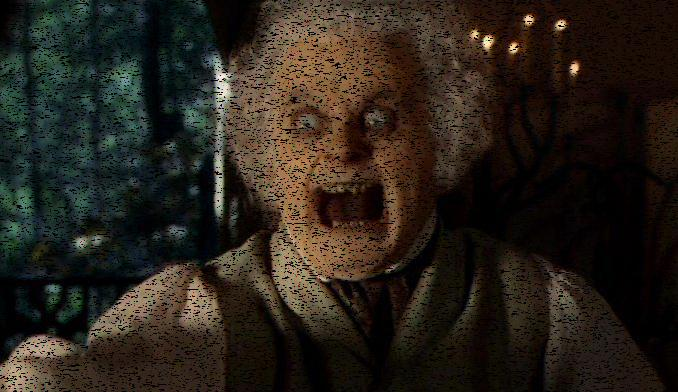
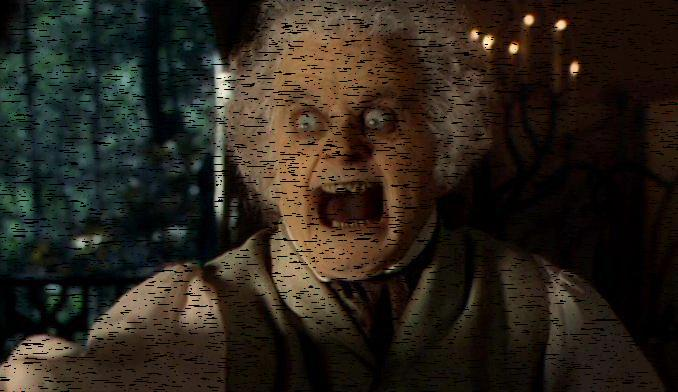
Gilbert model,limit of possible resends, execution time, process log

diff --git a/Functions.py b/Functions.py
@@ -43,13 +43,11 @@ def binary_symmetric_channel(probability, frame=None):
     if frame is None:
         frame = Frame(1, np.zeros(8))          # failsafe if frame is not given
 
-    probability *= 100                          # gives probability in percent and parses it to int
-    probability = int(probability)              # e.g. prob = 0.1 => prob = 10
-
     rand = random.randint(1, 100)
 
-    if rand in range(probability):                      # if rand is in range of probability
-        rand = random.randrange(0, frame.__len__())     # then it rands again to choose which bit to modify
+    if rand in range(1, probability + 1):                      # if rand is in range of probability
+        rand = random.randrange(0, frame.__len__())            # then it rands again to choose which bit to modify
+
         if frame.packet[rand] == 1:                     # and then changes this bit's value
             frame.packet[rand] = 0
         else:
@@ -91,14 +89,12 @@ def gilberts_model(probability, frame=None, state=True):
     if frame is None:
         frame = Frame(1, np.zeros(8))          # failsafe if frame is not given
 
-    probability *= 100                          # gives probability in percent and parses it to int
-    probability = int(probability)              # e.g. prob = 0.1 => prob = 10
-
     rand = random.randint(1, 100)
 
     if state:                                               # if previous frame was sent correctly
-        if rand in range(probability):                      # if rand is in range of probability
+        if rand in range(1, probability + 1):                      # if rand is in range of probability
             rand = random.randrange(0, frame.__len__())     # then it rands again to choose which bit to modify
+
             if frame.packet[rand] == 1:                     # and then changes this bit's value
                 frame.packet[rand] = 0
             else:
@@ -107,13 +103,14 @@ def gilberts_model(probability, frame=None, state=True):
                                                 # when sending the previous frame
 
     elif not state:                             # if previous frame was sent with error
-        probability = 100 - probability         # inverts probability
-        if rand in range(probability):                      # if rand is in range of new probability
+        if rand in range(100 - probability):                      # if rand is in range of new probability
             rand = random.randrange(0, frame.__len__())     # then it rands again to choose which bit to modify
+
             if frame.packet[rand] == 1:                     # and then changes this bit's value
                 frame.packet[rand] = 0
             else:
                 frame.packet[rand] = 1
+
         else:
             state = True                        # changing the state after no error; True -> successful transmission
                                                 # when sending the prefious frame
@@ -133,16 +130,42 @@ def stop_and_wait(probability, img_in, img_out, resends_possible=None):
     :param img_out:
     :return:
     """
+
+    tframes = 0                             # number of transferred frames
+    errors = 0                              # number of errors during transmission
+    dframes = 0                             # number of uncorrected errors
+
     state = True                            # 'state' saves if frame became distorted or not (Gilbert's model)
+
     if resends_possible is None:            # failsafe if timeout is not given
         resends_possible = -1
 
     resends_left = copy.deepcopy(resends_possible)      # initialize counter for left resends
 
-    height, width, depth = img_in.shape         # setting variables based on sizes of each axis in array
+    height, width, depth = img_in.shape                 # setting variables based on sizes of each axis in array
 
     error_model = input("1. Binary Symetric Channel Model\n"    # choosing error model
                         "2. Gilbert's Model\n")
+
+    if error_model == '1':                  # ------------------------------------------------
+        model = 'Binary symetric chanel'    #
+    else:                                   #
+        model = "Gilbert's"                 #
+                                            # formating for print below and process statistics
+    if resends_possible == -1:              #
+        resendsstr = 'unlimited'            #
+    else:                                   #
+        resendsstr = resends_possible       # ------------------------------------------------
+
+    cls()
+
+    print('Transmission using Stop and Wait protocol\n'     # print with process info
+          '{err_model} error model\n'                       # while process is running
+          'error probability: {p}%\n'
+          'possible resends: {r}'.format(err_model=model, p=probability, r=resendsstr))
+    print('Processing...')
+
+    proccess_time = time.clock()            # getting current time
 
     for h in range(height):                 # iterating by height
         for w in range(width):              # width
@@ -166,12 +189,23 @@ def stop_and_wait(probability, img_in, img_out, resends_possible=None):
                         img_out[h, w, d:d + 8] = sent_packet.packet  # saved to a receiver
                         break
                     else:
+                        errors += 1                                     # errors counter++
+
                         if resends_left > 0:                            # if not, frame is resent if there are possible
                             resends_left -= 1                           # resends left and no. of resends is decreased.
                         elif resends_left == 0:                         # If there are no more resends left,
+                            dframes += 1                                # distorted frames counter++
                             img_out[h, w, d:d + 8] = np.zeros(8)        # errorframe is saved to the image;
                             resends_left = resends_possible             # resends are re-set; loop breaks,
                             break                                       # and next frame is sent
-                        continue
 
-    return img_out
+                        continue
+                tframes += 1                                            # transfered frames counter++
+
+    print("Transmission Complete")
+
+    proccess_time = time.clock() - proccess_time                        # getting process time
+    print(f"time: {round(proccess_time, 2)} seconds")
+
+    # returning image, and process statistics
+    return resends_possible, 'Stop and Wait', model, proccess_time, tframes, errors, dframes, img_out

diff --git a/main.py b/main.py
@@ -2,6 +2,8 @@ import imageio
 import Functions
 import numpy as np
 import copy
+from PIL import Image
+import datetime
 
 
 def main():
@@ -13,7 +15,7 @@ def main():
     """
     Setting probability of error during transmission
     """
-    probability = float(input('Enter probability (0.00-1.00): '))          # probability of error; from 0.00 to 1.00
+    probability = int(input('Enter error probability in % (0 - 100): '))    # probability of error; from 0 to 100 %
 
     """
     Read jpg image from a file, into a nympy array
@@ -39,13 +41,15 @@ def main():
     resends = 0 => no error correction, every frame is saved no matter if correct or not
     resends = '' = -1 => 100% error correction, frame is being resent, untill correct transmission
     """
-    resends = input('Enter number of possible resends (for infinite number press [Enter]): ')   # enter natural number
+    resends = input('Enter number of possible resends (for unlimited press [Enter]): ')   # enter natural number
     if resends == '':
         resends = -1
     else:
         resends = int(resends)
 
-    img_out = Functions.stop_and_wait(probability, img_in, img_out, resends_possible=resends)
+    # returnes processed image, and process statistics
+    resends, protocol, model, process_time, tframes, errors, dframes, img_out = \
+        Functions.stop_and_wait(probability, img_in, img_out, resends_possible=resends)
 
     """
     Packing the array in axis2 back from bits, to create 3 color values for each pixel (0-255)
@@ -55,8 +59,30 @@ def main():
     """
     Writing changed image to file
     """
-
     imageio.imwrite('assets/output/image.jpg', img_out)
+
+    """
+    Writing process log, and showing image
+    """
+    logtime = datetime.datetime.today()     # getting current time and date
+
+    if resends == -1:
+        resends = 'unlimited'               # so the log says "unlimited" instead of "-1"
+
+    with open(f'logs/{logtime.strftime("%Y.%m.%d %H%M%S")}.txt', mode='w') as file:     # writing log to file
+        file.write(f'Image transfer {logtime.strftime("%Y/%m/%d %H:%M:%S")}\n'          # strftime() - formating
+                   f'Error probability - {probability}%\n'
+                   f'Number of possible resends - {resends}\n'
+                   f'{protocol} protocol\n'
+                   f'{model} error model\n'
+                   f'send frames - {tframes}\n'
+                   f'correctly transferred frames - {tframes-dframes}\n'
+                   f'error occurences - {errors}\n'
+                   f'corrected errors - {errors-dframes}\n'
+                   f'uncorrected errors - {dframes}\n'
+                   f'process time - {round(process_time, 2)}')
+
+    Image.Image.show(Image.open('assets/output/image.jpg'))         # showing image
 
 
 if __name__ == '__main__':
